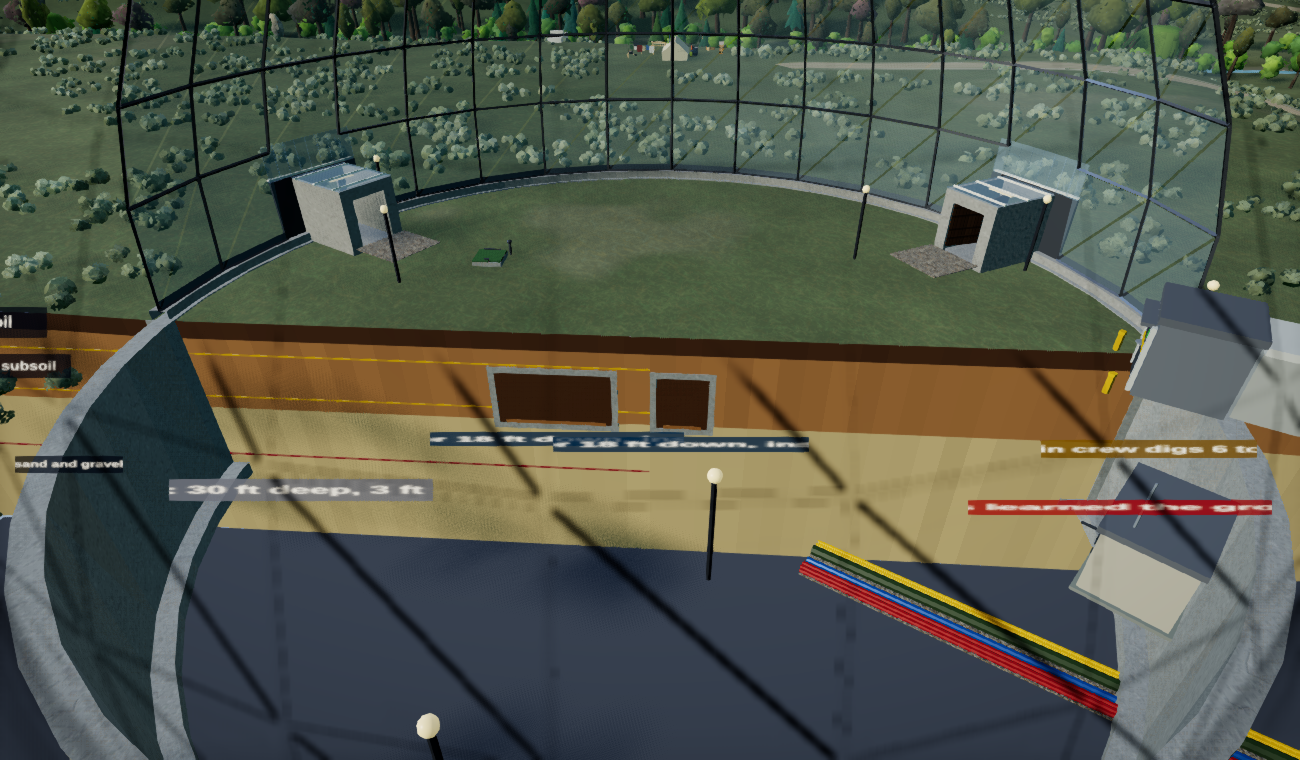
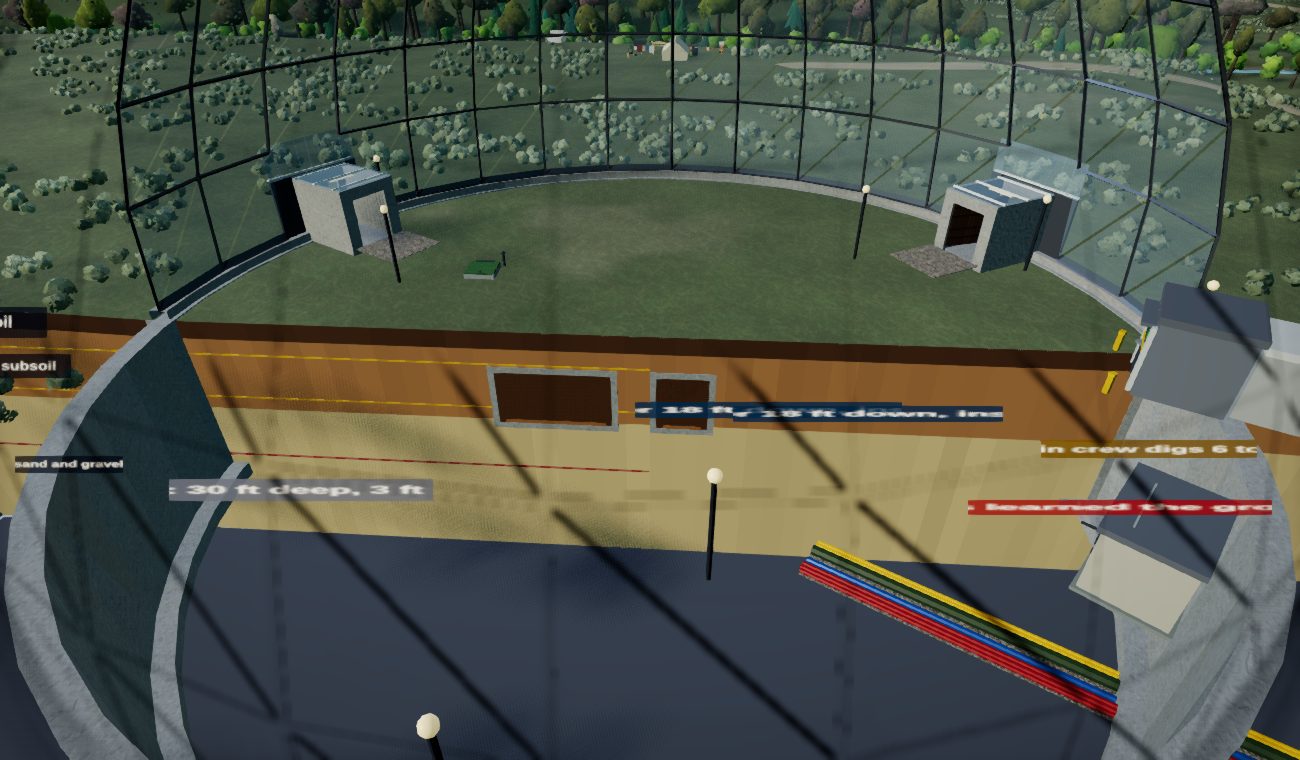
Dome bunker: eye-level hatch frame, single section label

diff --git a/src/game/buildkit/domeDig.ts b/src/game/buildkit/domeDig.ts
@@ -619,7 +619,7 @@ export function buildSection(o: SectionOpts): THREE.Group {
   sprite(`Skirt: ${TIER[tier].skirtFt} ft deep, ${TIER[tier].skirtThickFt} ft thick`, -half * 0.5, rulerTop - k.depthU - 0.25 * sc, 0.03, 3.4, 'rgba(110,112,118,0.85)');
   sprite(`A plain crew digs ${DIG_DEPTH_FT[0]} to ${DIG_DEPTH_FT[1]} ft`, half * 0.62, rulerTop - DIG_DEPTH_FT[1] / FT_PER_UNIT - 0.14, 0.03, 2.4, 'rgba(120,90,10,0.85)');
   sprite(`A crew that has learned the ground: ${DIG_DEPTH_FT[0] + DIG_DEEPER} to ${DIG_DEPTH_FT[1] + DIG_DEEPER} ft`, half * 0.62, rulerTop - (DIG_DEPTH_FT[1] + DIG_DEEPER) / FT_PER_UNIT - 0.14, 0.03, 3.6, 'rgba(150,40,30,0.85)');
-  for (const r of o.bunker ?? []) sprite(`Bunker: floor ${Math.round(-r.floorY * FT_PER_UNIT + 1)} ft down, inside the skirt`, r.x1 + 1.7 * sc, (r.floorY + r.roofY) / 2, 0.03, 3.0, 'rgba(30,60,80,0.88)');
+  for (const r of (o.bunker ?? []).slice(0, 1)) sprite(`Bunker: floor ${Math.round(-r.floorY * FT_PER_UNIT + 1)} ft down, inside the skirt`, r.x1 + 1.7 * sc, (r.floorY + r.roofY) / 2, 0.03, 3.0, 'rgba(30,60,80,0.88)');
   let ys = 0; for (const st of STRATA.slice(0, 4)) { const mid = (st.fromFt + Math.min(st.toFt, D * FT_PER_UNIT)) / 2; if (st.fromFt < D * FT_PER_UNIT) sprite(st.name, -half + 1.0, rulerTop - mid / FT_PER_UNIT, 0.02, 1.4); ys++; }
   void ys;
   return g;
